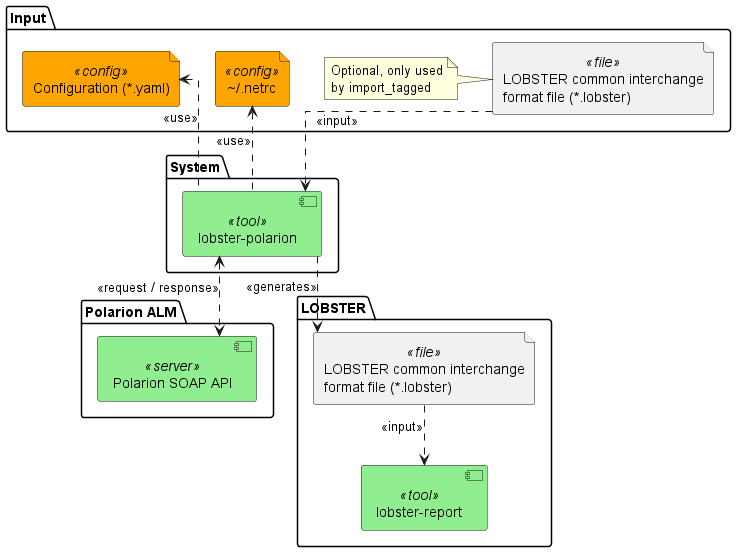
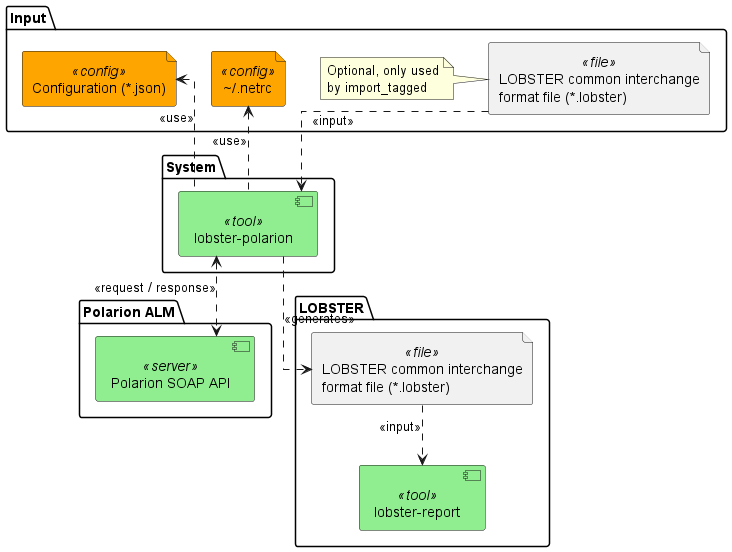
docs: use JSON instead of YAML for the configuration file

diff --git a/doc/README.md b/doc/README.md
@@ -28,7 +28,7 @@ The following picture shows the overall tool flow:
 
 | Interface                                                | Direction | Description                                                                         |
 | -------------------------------------------------------- | --------- | ----------------------------------------------------------------------------------- |
-| Configuration (*.yaml)                                   | In        | Polarion server, project, import mode and mapping to the LOBSTER items.             |
+| Configuration (*.json)                                   | In        | Polarion server, project, import mode and mapping to the LOBSTER items.             |
 | `~/.netrc`                                               | In        | Fallback for the credentials, if they are not given in the configuration.           |
 | LOBSTER common interchange format file (*.lobster)       | In        | Optional, only used by `import_tagged`. Contains the `req` references.              |
 | Polarion SOAP API                                        | In / Out  | Request of the work items and response with their fields and links.                 |

diff --git a/CLAUDE.md b/CLAUDE.md
@@ -61,7 +61,7 @@ swe-test, src, tests) exist.
 ## Concept Reference
 
 The tool concept shall be similar to lobster-codebeamer
-(https://github.com/bmw-software-engineering/lobster/tree/main/packages/lobster-tool-codebeamer): YAML configuration file,
+(https://github.com/bmw-software-engineering/lobster/tree/main/packages/lobster-tool-codebeamer): JSON configuration file,
 selection by query / tagged items / baseline, `refs` from item links, selectable LOBSTER schema. The repository structure and
 Python code shall be similar to lobster-doxygen (https://github.com/NewTec-GmbH/lobster-doxygen).
 
